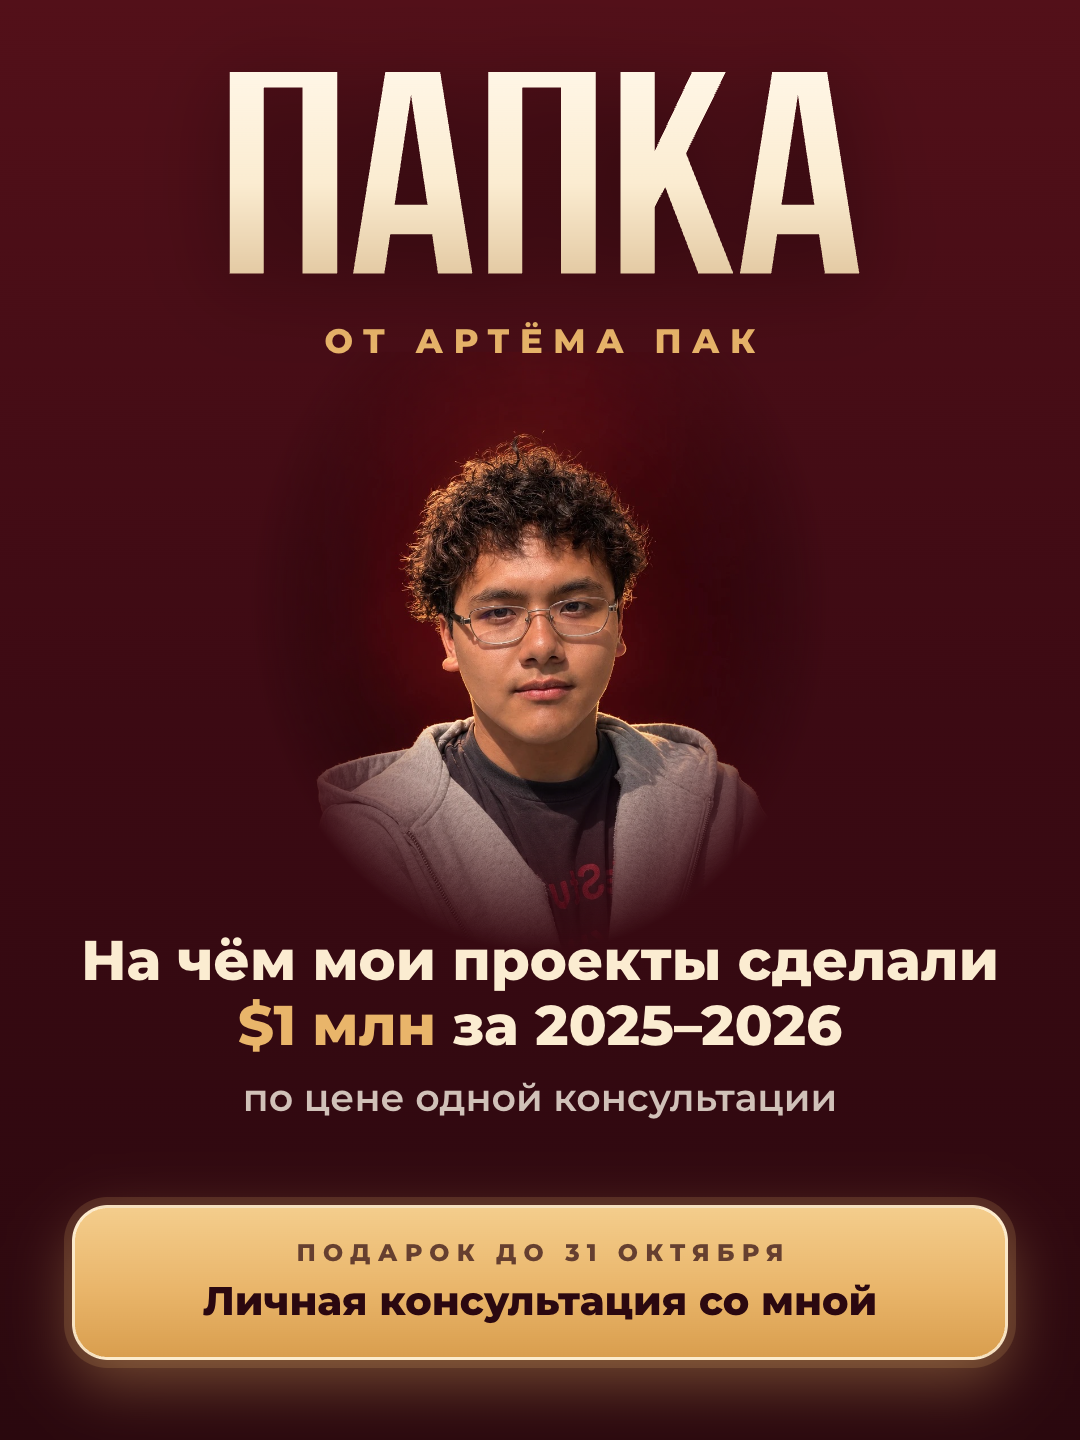
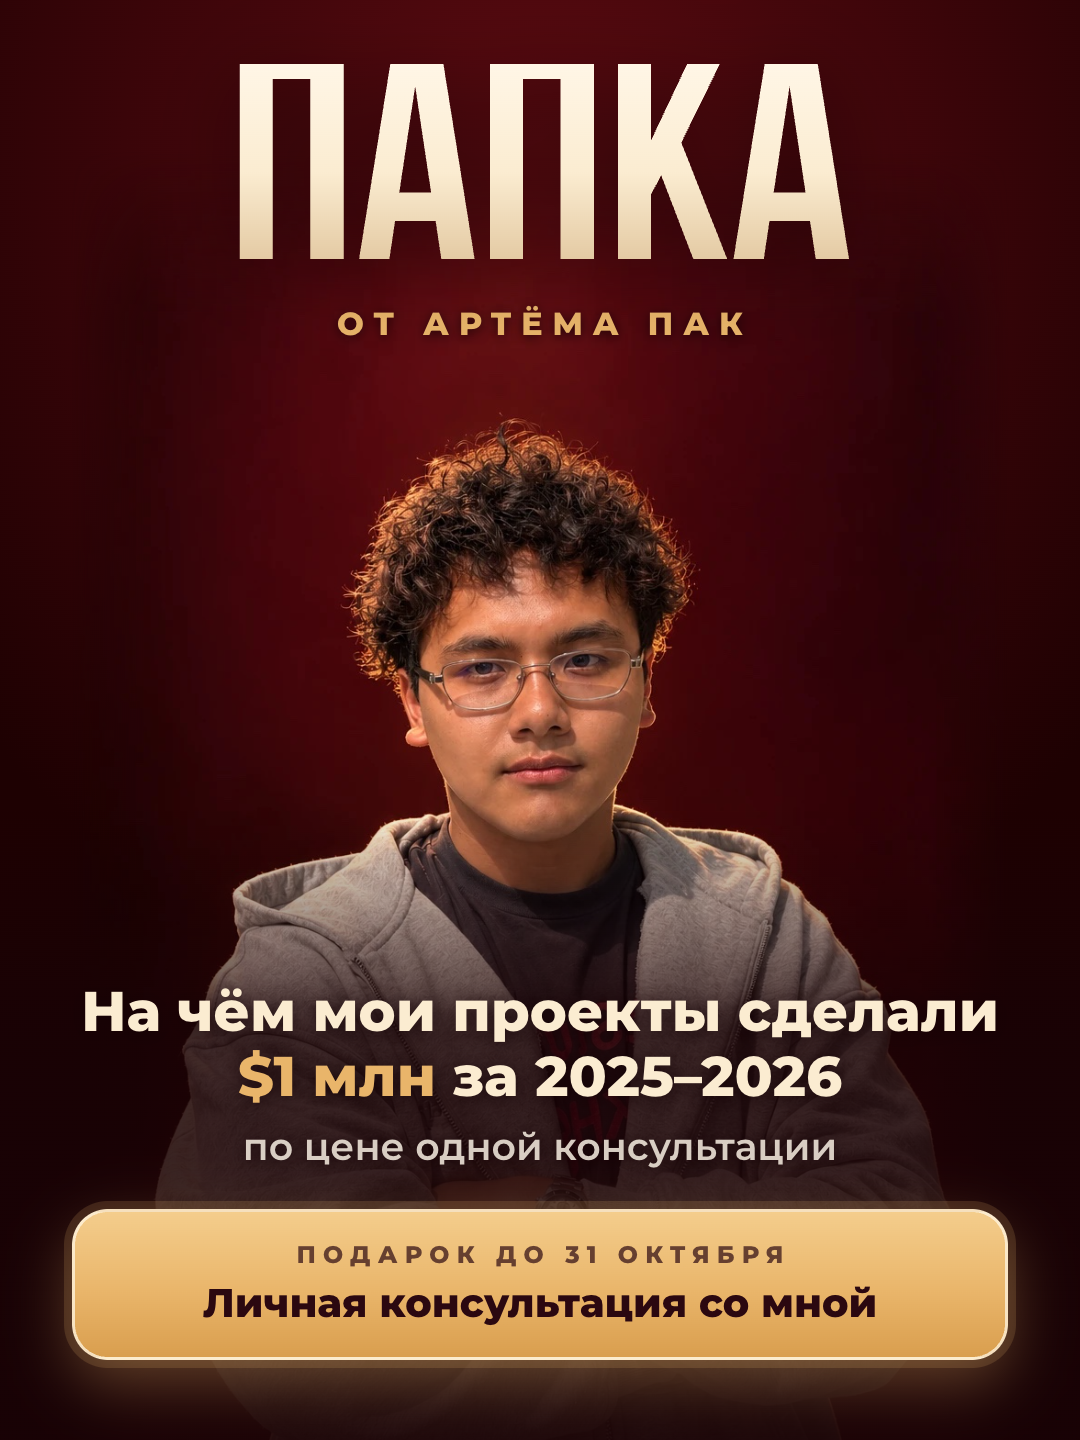
Баннер 3:4: новое фото на весь баннер вместо овала

diff --git a/promo/banner-papka-3x4.html b/promo/banner-papka-3x4.html
@@ -4,68 +4,74 @@
 <meta charset="utf-8">
 <title>Баннер ПАПКА 3:4</title>
 <!-- Баннер к посту про ПАПКУ: 1080×1440 (3:4). Картинка снимается скриншотом этой страницы в окне 1080×1440.
-     Три зоны без наложения: название сверху, фото посередине, текст и подарок снизу. Всё по центру. -->
+     Фото на весь баннер, его красный студийный фон и есть фон баннера. Сверху название над головой,
+     снизу текст на затемнении. Всё по центру. -->
 <link rel="preconnect" href="https://fonts.googleapis.com">
 <link href="https://fonts.googleapis.com/css2?family=Montserrat:wght@600;700;800&display=swap" rel="stylesheet">
 <style>
   @font-face { font-family: 'Bebas Neue'; font-weight: 700; src: url(../papka/fonts/BebasNeue-Bold.ttf) format('truetype'); }
-  :root {
-    --wine-top: #531019; --wine: #3C0A13; --deep: #2A080E;
-    --gold: #E9B56A; --gold-hi: #F4CD8C; --cream: #F8EFE2; --hero-ink: #FBECD1; --ink: #2B0810;
-  }
+  :root { --gold: #E9B56A; --gold-hi: #F4CD8C; --cream: #F8EFE2; --hero-ink: #FBECD1; --ink: #2B0810; }
   * { box-sizing: border-box; margin: 0; padding: 0; }
   html, body { width: 1080px; height: 1440px; overflow: hidden; }
   body {
+    position: relative;
     display: flex;
     flex-direction: column;
     align-items: center;
-    padding: 72px 72px 80px;
-    background: linear-gradient(180deg, var(--wine-top) 0%, var(--wine) 50%, var(--deep) 100%);
+    padding: 64px 72px 80px;
+    /* продолжение студийного фона над фото: светлее в центре, темнее к краям */
+    background: radial-gradient(ellipse 70% 60% at 50% 10%, #5A0A10 0%, #3A0509 55%, #1E0102 100%);
     color: var(--cream);
     font-family: 'Montserrat', system-ui, sans-serif;
     text-align: center;
     -webkit-font-smoothing: antialiased;
     isolation: isolate;
   }
+  /* фото на всю ширину, опущено ниже названия; верхний край растворяется в фоне */
+  body::before {
+    content: '';
+    position: absolute;
+    inset: 0;
+    z-index: -2;
+    background: url(img/artem-arms.jpg) 50% 150px / 940px auto no-repeat;
+    /* края фото совпадают по цвету с фоном; на всякий случай растворяем и боковые края */
+    -webkit-mask-image: linear-gradient(to bottom, transparent 150px, #000 320px), linear-gradient(to right, transparent 70px, #000 150px, #000 930px, transparent 1010px);
+    -webkit-mask-composite: source-in;
+    mask-image: linear-gradient(to bottom, transparent 150px, #000 320px), linear-gradient(to right, transparent 70px, #000 150px, #000 930px, transparent 1010px);
+    mask-composite: intersect;
+  }
+  /* затемнение снизу под текст */
+  body::after {
+    content: '';
+    position: absolute;
+    inset: 0;
+    z-index: -1;
+    background: linear-gradient(180deg, rgba(24, 2, 5, 0) 0%, rgba(24, 2, 5, 0) 56%, rgba(24, 2, 5, .82) 72%, rgba(24, 2, 5, .94) 100%);
+  }
   /* разрядка добавляет пробел после последней буквы; отступ слева на ту же величину возвращает текст в центр */
   .spaced { letter-spacing: .3em; padding-left: .3em; text-transform: uppercase; }
 
   .title {
-    font: 700 310px/.8 'Bebas Neue', Impact, sans-serif;
+    font: 700 300px/.8 'Bebas Neue', Impact, sans-serif;
     background: linear-gradient(180deg, #FFF6E6 0%, var(--hero-ink) 45%, #D8B98C 100%);
     -webkit-background-clip: text;
     background-clip: text;
     color: transparent;
-    filter: drop-shadow(0 14px 40px rgba(0, 0, 0, .4));
+    filter: drop-shadow(0 14px 40px rgba(0, 0, 0, .45));
   }
-  .by { margin-top: 0; color: var(--gold); font-size: 34px; font-weight: 800; }
+  .by { margin-top: 0; color: var(--gold); font-size: 32px; font-weight: 800; text-shadow: 0 2px 12px rgba(20, 2, 5, .8); }
 
-  /* фото: голова и плечи, края и низ растворяются в фоне, текст на него не заходит */
-  .photo {
-    position: relative;
-    z-index: -1;
-    flex: none;
-    width: 580px;
-    height: 600px;
-    margin-top: -10px;
-    background: url(../papka/img/hero.jpg) center 30% / 580px auto no-repeat;
-    /* овал вокруг головы и плеч: у студийного фона нет прямых краёв */
-    -webkit-mask-image: radial-gradient(ellipse 50% 58% at 50% 42%, #000 50%, transparent 100%);
-    mask-image: radial-gradient(ellipse 50% 58% at 50% 42%, #000 50%, transparent 100%);
-  }
-
-  .lead { margin-top: -24px; color: var(--hero-ink); font-size: 56px; font-weight: 800; line-height: 1.16; }
+  .bottom { margin-top: auto; width: 100%; }
+  .lead { color: var(--hero-ink); font-size: 56px; font-weight: 800; line-height: 1.16; text-shadow: 0 3px 20px rgba(20, 2, 5, .9); }
   .lead b { color: var(--gold); }
-  .price { margin-top: 16px; color: rgba(248, 239, 226, .8); font-size: 38px; font-weight: 600; }
-
+  .price { margin-top: 14px; color: rgba(248, 239, 226, .85); font-size: 38px; font-weight: 600; text-shadow: 0 2px 14px rgba(20, 2, 5, .9); }
   .gift {
-    margin-top: auto;
-    width: 100%;
-    padding: 30px 32px 32px;
+    margin-top: 40px;
+    padding: 28px 32px 30px;
     border: 3px solid rgba(255, 246, 227, .75);
     border-radius: 36px;
     background: linear-gradient(180deg, var(--gold-hi), var(--gold) 55%, #D99E4E);
-    box-shadow: 0 0 0 8px rgba(233, 181, 106, .16), 0 22px 60px rgba(233, 181, 106, .38);
+    box-shadow: 0 0 0 8px rgba(233, 181, 106, .16), 0 22px 60px rgba(233, 181, 106, .35);
     color: var(--ink);
   }
   .gift__tag { font-size: 24px; font-weight: 800; opacity: .7; }
@@ -75,12 +81,13 @@
 <body>
   <h1 class="title">ПАПКА</h1>
   <p class="by spaced">от&nbsp;Артёма Пак</p>
-  <div class="photo"></div>
-  <p class="lead">На&nbsp;чём мои проекты сделали<br><b>$1&nbsp;млн</b> за&nbsp;2025–2026</p>
-  <p class="price">по&nbsp;цене одной консультации</p>
-  <div class="gift">
-    <p class="gift__tag spaced">Подарок до&nbsp;31&nbsp;октября</p>
-    <p>Личная консультация со&nbsp;мной</p>
+  <div class="bottom">
+    <p class="lead">На&nbsp;чём мои проекты сделали<br><b>$1&nbsp;млн</b> за&nbsp;2025–2026</p>
+    <p class="price">по&nbsp;цене одной консультации</p>
+    <div class="gift">
+      <p class="gift__tag spaced">Подарок до&nbsp;31&nbsp;октября</p>
+      <p>Личная консультация со&nbsp;мной</p>
+    </div>
   </div>
 </body>
 </html>
